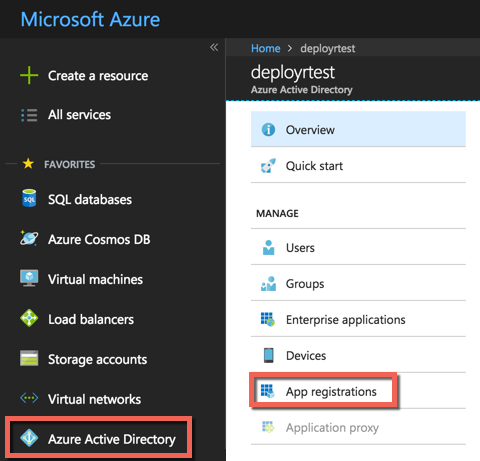
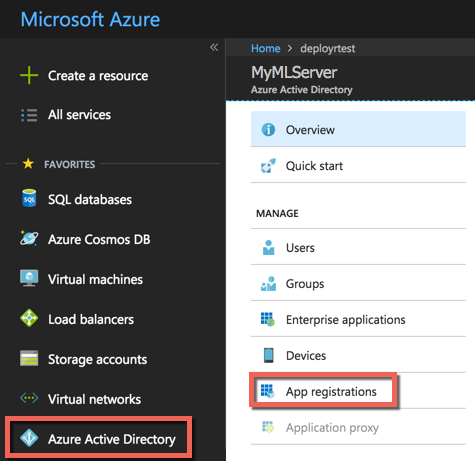
update the tenant ID examples for AAD docs

diff --git a/microsoft-r/operationalize/configure-authentication.md b/microsoft-r/operationalize/configure-authentication.md
@@ -194,7 +194,7 @@ You can make LDAP traffic confidential and secure using Secure Sockets Layer (SS
 
 1. Sign in to the [Azure portal](http://portal.azure.com).
 
-1. Select the upper-right hand corner and select the Active Directory account from the list. If the Azure Active Directory has not been set up yet, contact your system administrator. In our example, that directory is `deployrtest`.
+1. Select the upper-right hand corner and select the Active Directory account from the list. If the Azure Active Directory has not been set up yet, contact your system administrator. In our example, that directory is `MyMLServer`.
  
 1. Select **Azure Active Directory** from the left-hand side. 
 
@@ -248,7 +248,7 @@ Now, create a web app that is tied to the Azure Active Directory as follows:
    >[!IMPORTANT] 
    > Take note of this key as it is needed to configure [roles to give web services permissions to certain users](configure-roles.md). 
 
-1. Also, take note of the application's tenant ID.  The tenant ID is the domain of the Azure Active Directory account, for example,  `myMRServer.contoso.com`.
+1. Also, take note of the application's tenant ID.  The tenant ID is the domain of the Azure Active Directory account, for example,  `myMLServer.contoso.com`.
 
 
 **Step 3: Create a native application**
@@ -334,9 +334,9 @@ Now, let's create a native application. This application links the web applicati
    |Azure AD Properties|Definition|
    |----------------|-------------------------------|
    |Enabled|To use AAD for authentication, set to 'true'. Else, set to 'false'.|
-   |Authority|Use 'https://login.windows.net/<URL to AAD login>' where <URL to AAD login> is the URL to the AAD login. For example, if the AAD account domain is myMRServer.contoso.com, then the Authority would be 'https://login.windows.net/myMRSServer.contoso.com'|
-   |Audience|Use the CLIENT ID value for the WEB app you created in the Azure portal.|
-   |ClientId|Use the CLIENT ID value for the NATIVE app you created in the Azure portal.|
+   |Authority|Use 'https://login.windows.net/\<URL to AAD login>' where \<URL to AAD login> is the URL to the AAD login. For example, if the AAD account domain is myMLServer.contoso.com, then the Authority would be 'https://login.windows.net/myMLServer.contoso.com'|
+   |Audience|Use the Application ID value for the WEB app you created in the Azure portal.|
+   |ClientId|Use the Application ID value for the NATIVE app you created in the Azure portal.|
    |Key|This is the key for the WEB application you took note of before.  |
    |KeyEncrypted|We highly recommend that you [encrypt login credentials](configure-admin-cli-encrypt-credentials.md) before adding the information to this file. Set KeyEncrypted to 'true' if using encrypted information. For plain text, set to 'false'.|
 
@@ -344,7 +344,7 @@ Now, let's create a native application. This application links the web applicati
    ```
    "AzureActiveDirectory": {
       "Enabled": true,
-      "Authority": "https://login.windows.net/myMRServer.contoso.com",
+      "Authority": "https://login.windows.net/myMLServer.contoso.com",
       "Audience": "00000000-0000-0000-0000-000000000000",
       "ClientId": "00000000-0000-0000-0000-000000000000",
       "Key": "ABCD000000000000000000000000WXYZ", 
